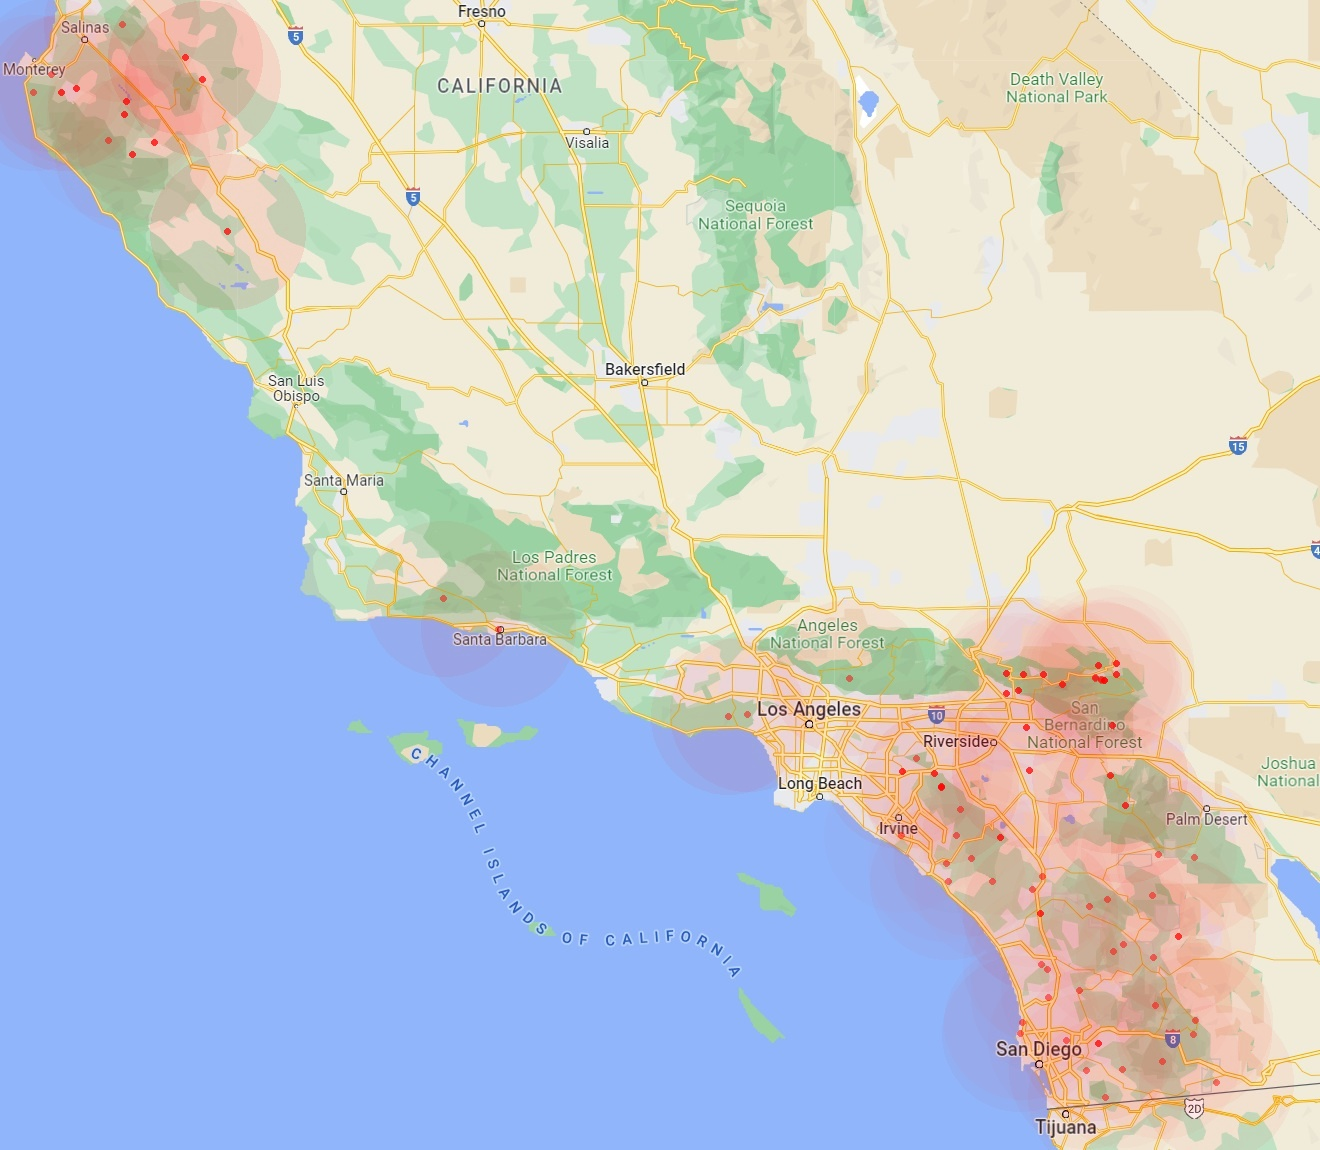
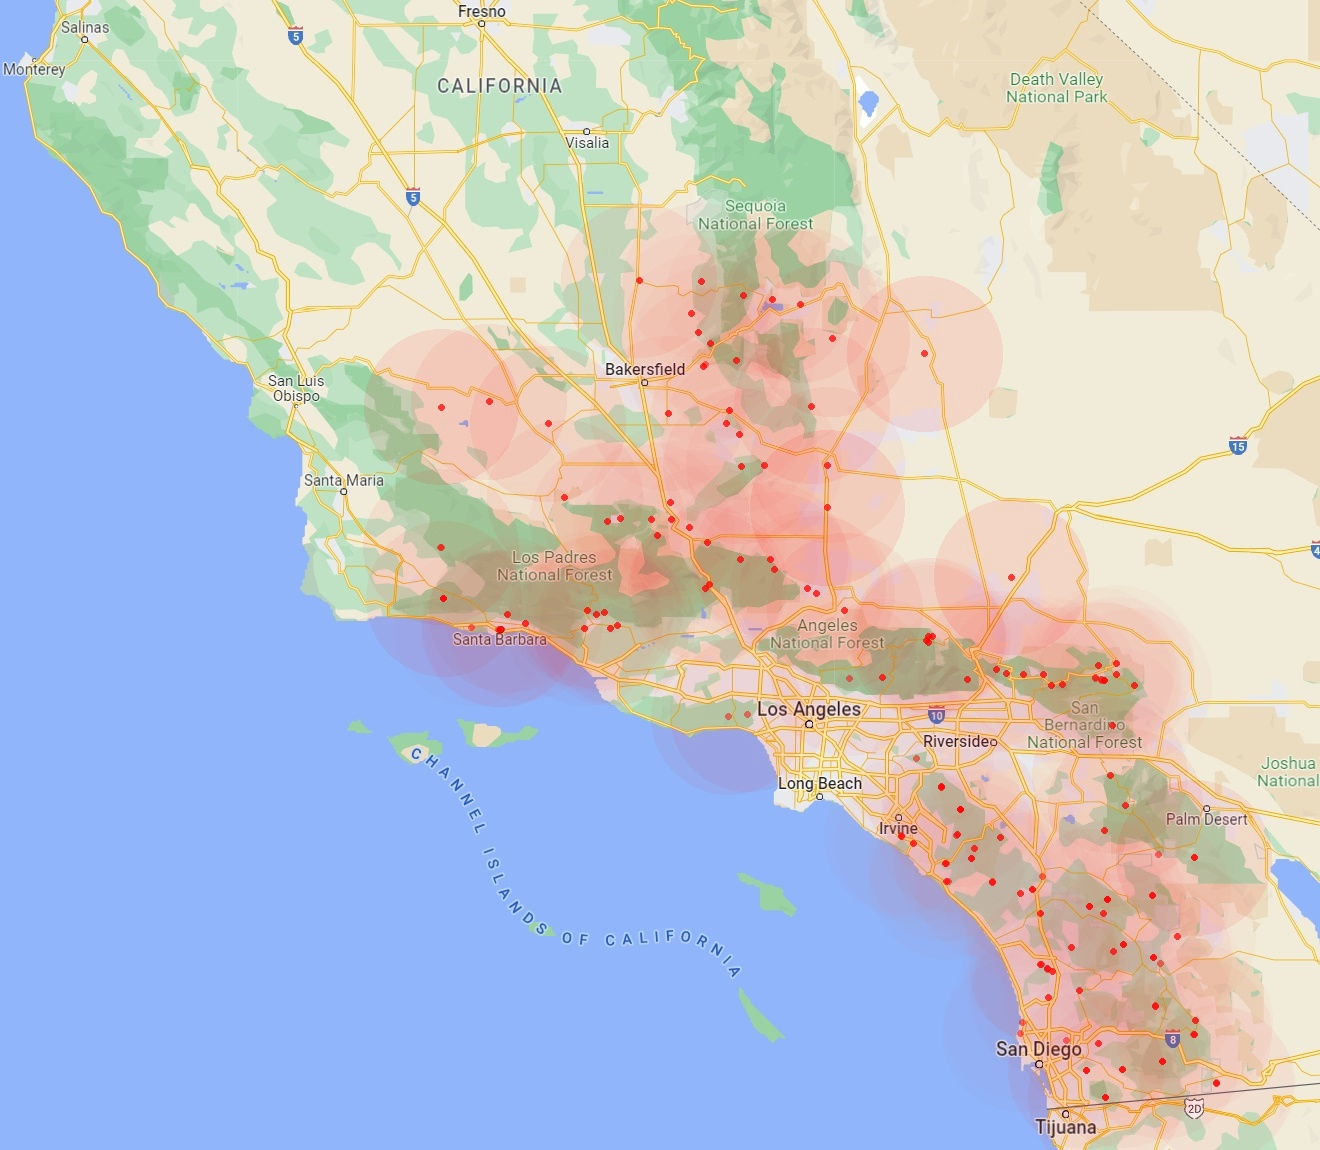
New cameras

Changed region(s): [[0.3106, 0.1826, 0.8386, 0.7], [0.0, 0.0, 0.2174, 0.213]]

diff --git a/src/Preferences.js b/src/Preferences.js
@@ -22,25 +22,25 @@ import ResizeObserver from 'react-resize-observer';
 import Notification  from "react-web-notification";
 
 import {getServerUrl, serverPost, getUserPreferences} from './OctReactUtils';
-// import cams1320 from './midsocalCams-1320x1150.jpg';
-// import cams1110 from './midsocalCams-1110x960.jpg';
-// import cams930 from './midsocalCams-930x810.jpg';
-// import cams780 from './midsocalCams-780x680.jpg';
+import cams1320 from './midsocalCams-1320x1150.jpg';
+import cams1110 from './midsocalCams-1110x960.jpg';
+import cams930 from './midsocalCams-930x810.jpg';
+import cams780 from './midsocalCams-780x680.jpg';
 // import hpwren1078 from './hpwren-1078x638.jpg';
 // import hpwren1290 from './hpwren-1290x762.jpg';
 // import hpwren1492 from './hpwren-1492x870.jpg';
-import cams1078 from './cams-socal-1078x638.jpg';
-import cams1290 from './cams-socal-1290x762.jpg';
-import cams1492 from './cams-socal-1492x870.jpg';
+// import cams1078 from './cams-socal-1078x638.jpg';
+// import cams1290 from './cams-socal-1290x762.jpg';
+// import cams1492 from './cams-socal-1492x870.jpg';
 
 const maps = [
-  // {name: cams1320, topLat: 36.85, leftLong: -122.08, bottomLat: 32.39, rightLong: -115.83, pixelWidth: 1320, pixelHeight: 1150},
-  // {name: cams1110, topLat: 36.86, leftLong: -122.11, bottomLat: 32.38, rightLong: -115.8, pixelWidth: 1110, pixelHeight: 960},
-  // {name: cams930, topLat: 36.88, leftLong: -122.15, bottomLat: 32.35, rightLong: -115.8, pixelWidth: 930, pixelHeight: 810},
-  // {name: cams780, topLat: 36.9, leftLong: -122.18, bottomLat: 32.33, rightLong: -115.8, pixelWidth: 780, pixelHeight: 680},
-  {name: cams1492, topLat: 34.79, leftLong: -120.59, bottomLat: 32.42, rightLong: -115.72, pixelWidth: 1492, pixelHeight: 870},
-  {name: cams1290, topLat: 34.81, leftLong: -120.58, bottomLat: 32.43, rightLong: -115.72, pixelWidth: 1290, pixelHeight: 762},
-  {name: cams1078, topLat: 34.82, leftLong: -120.60, bottomLat: 32.41, rightLong: -115.72, pixelWidth: 1078, pixelHeight: 638},
+  {name: cams1320, topLat: 36.85, leftLong: -122.08, bottomLat: 32.39, rightLong: -115.83, pixelWidth: 1320, pixelHeight: 1150},
+  {name: cams1110, topLat: 36.86, leftLong: -122.11, bottomLat: 32.38, rightLong: -115.8, pixelWidth: 1110, pixelHeight: 960},
+  {name: cams930, topLat: 36.88, leftLong: -122.15, bottomLat: 32.35, rightLong: -115.8, pixelWidth: 930, pixelHeight: 810},
+  {name: cams780, topLat: 36.9, leftLong: -122.18, bottomLat: 32.33, rightLong: -115.8, pixelWidth: 780, pixelHeight: 680},
+  // {name: cams1492, topLat: 34.79, leftLong: -120.59, bottomLat: 32.42, rightLong: -115.72, pixelWidth: 1492, pixelHeight: 870},
+  // {name: cams1290, topLat: 34.81, leftLong: -120.58, bottomLat: 32.43, rightLong: -115.72, pixelWidth: 1290, pixelHeight: 762},
+  // {name: cams1078, topLat: 34.82, leftLong: -120.60, bottomLat: 32.41, rightLong: -115.72, pixelWidth: 1078, pixelHeight: 638},
 ];
 maps.forEach(mapInfo => {
   mapInfo.longWidth = mapInfo.rightLong - mapInfo.leftLong;
